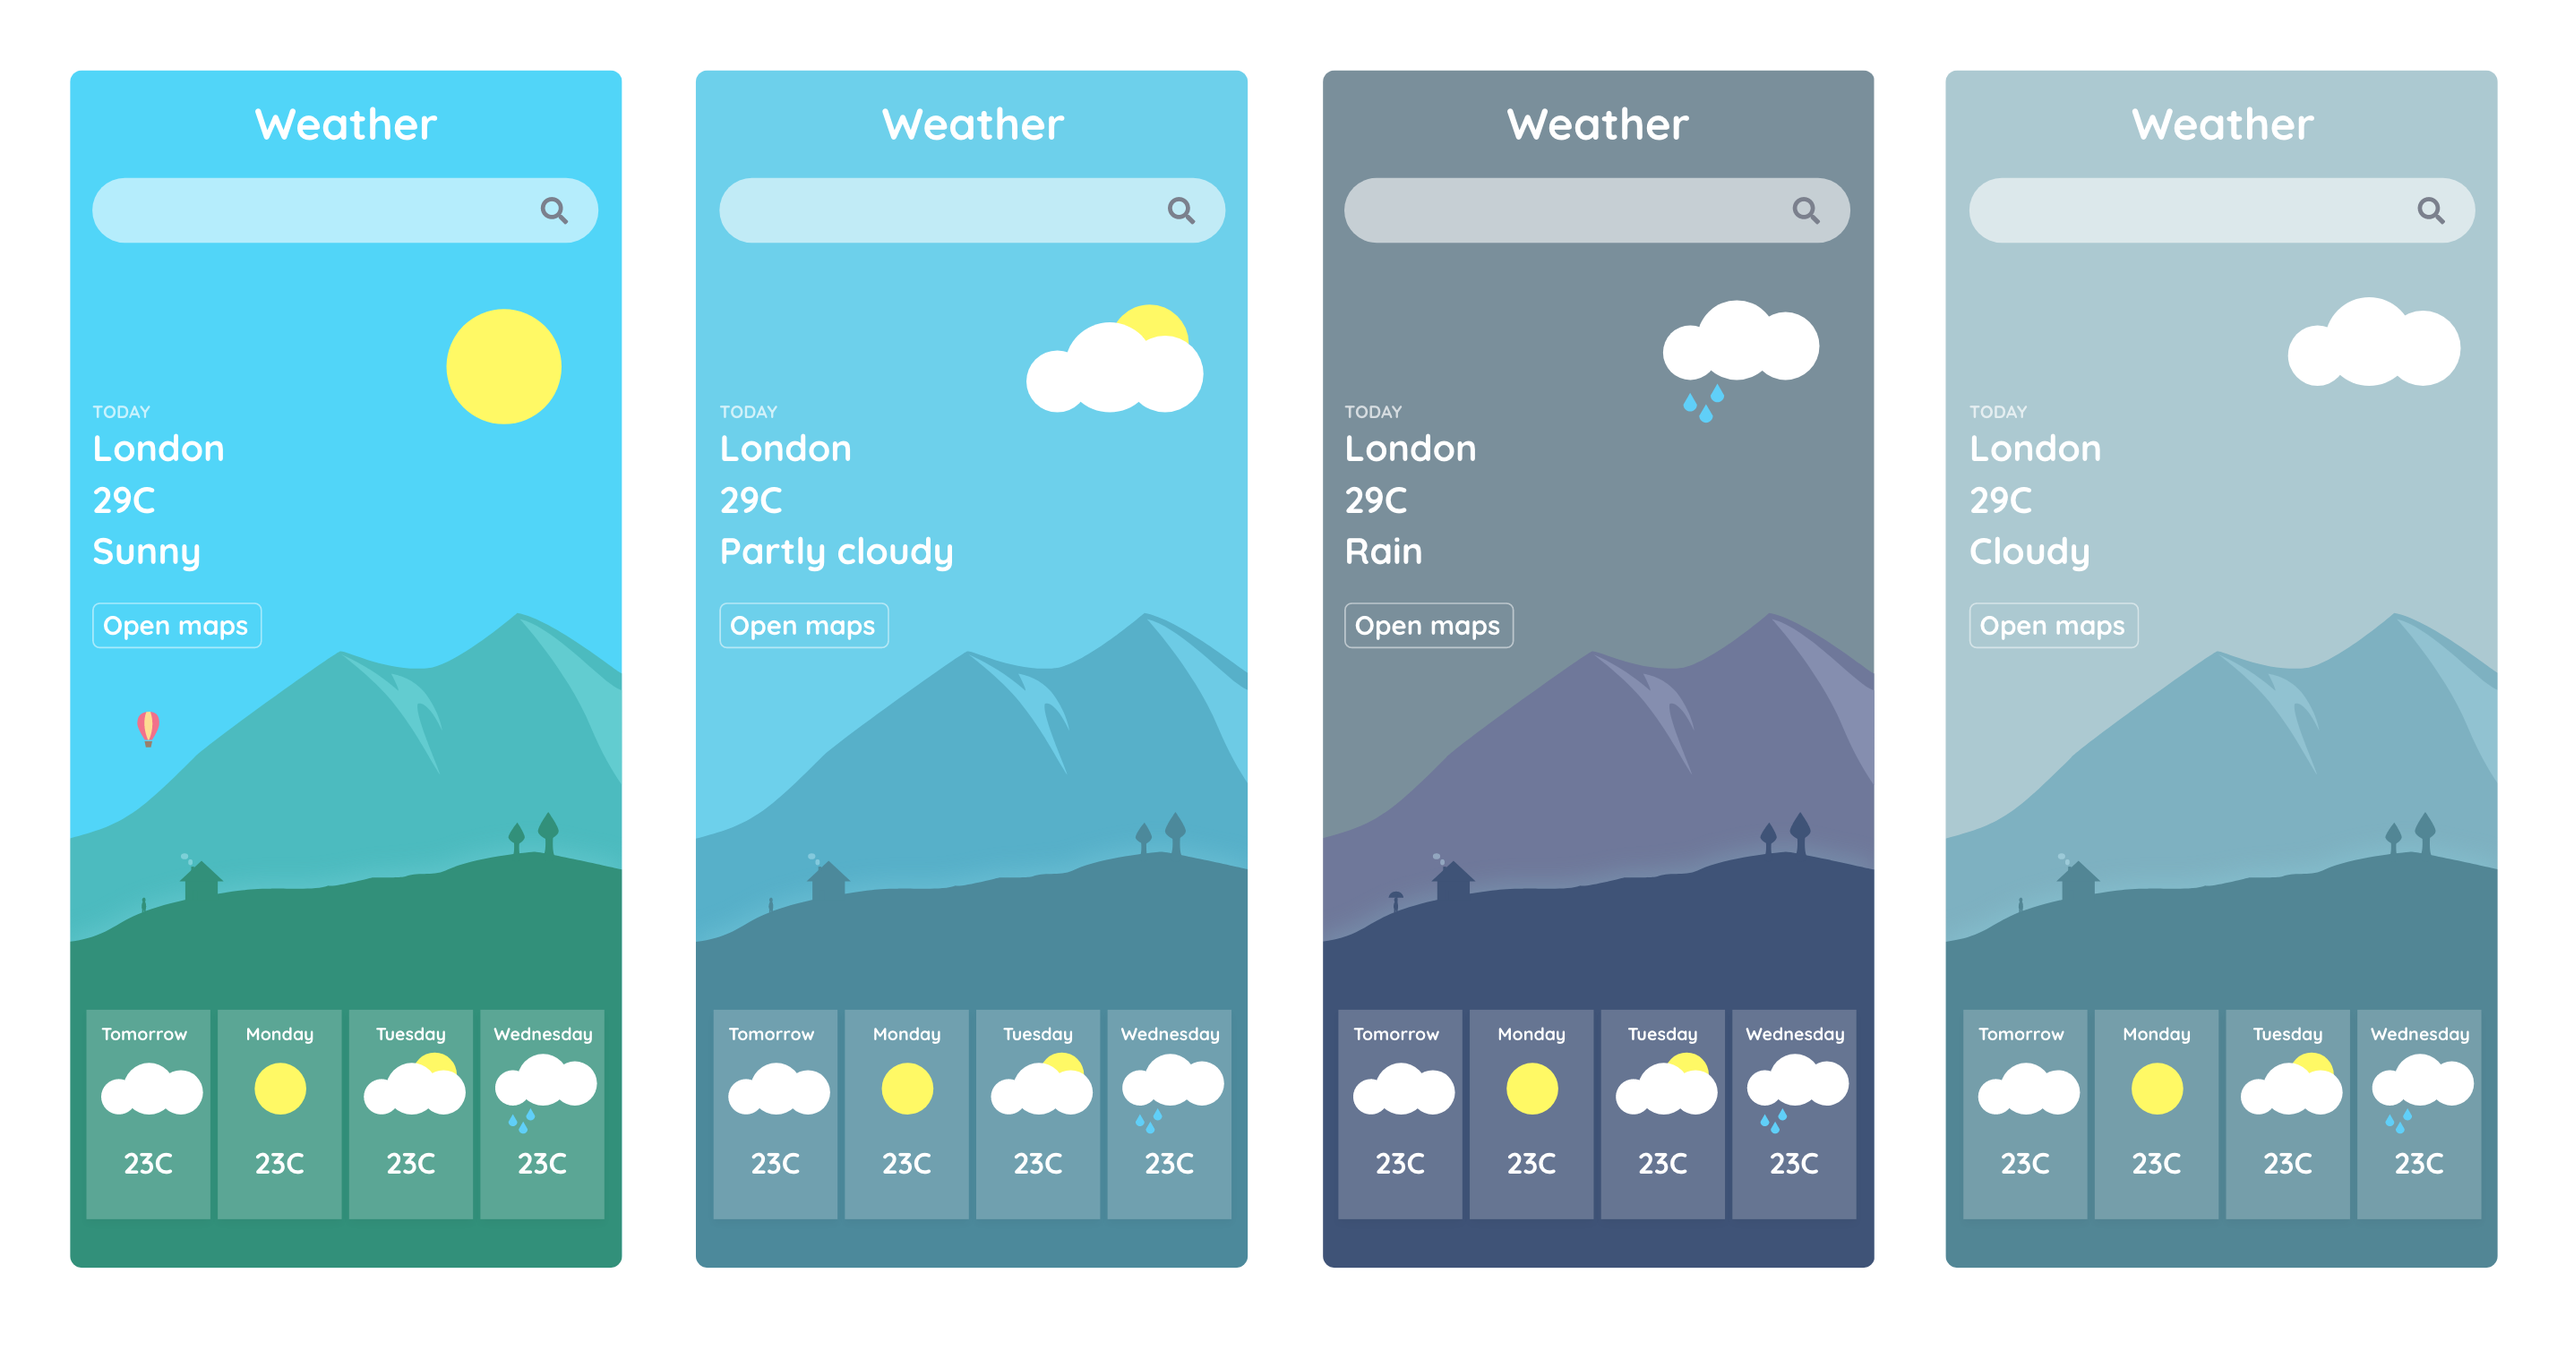
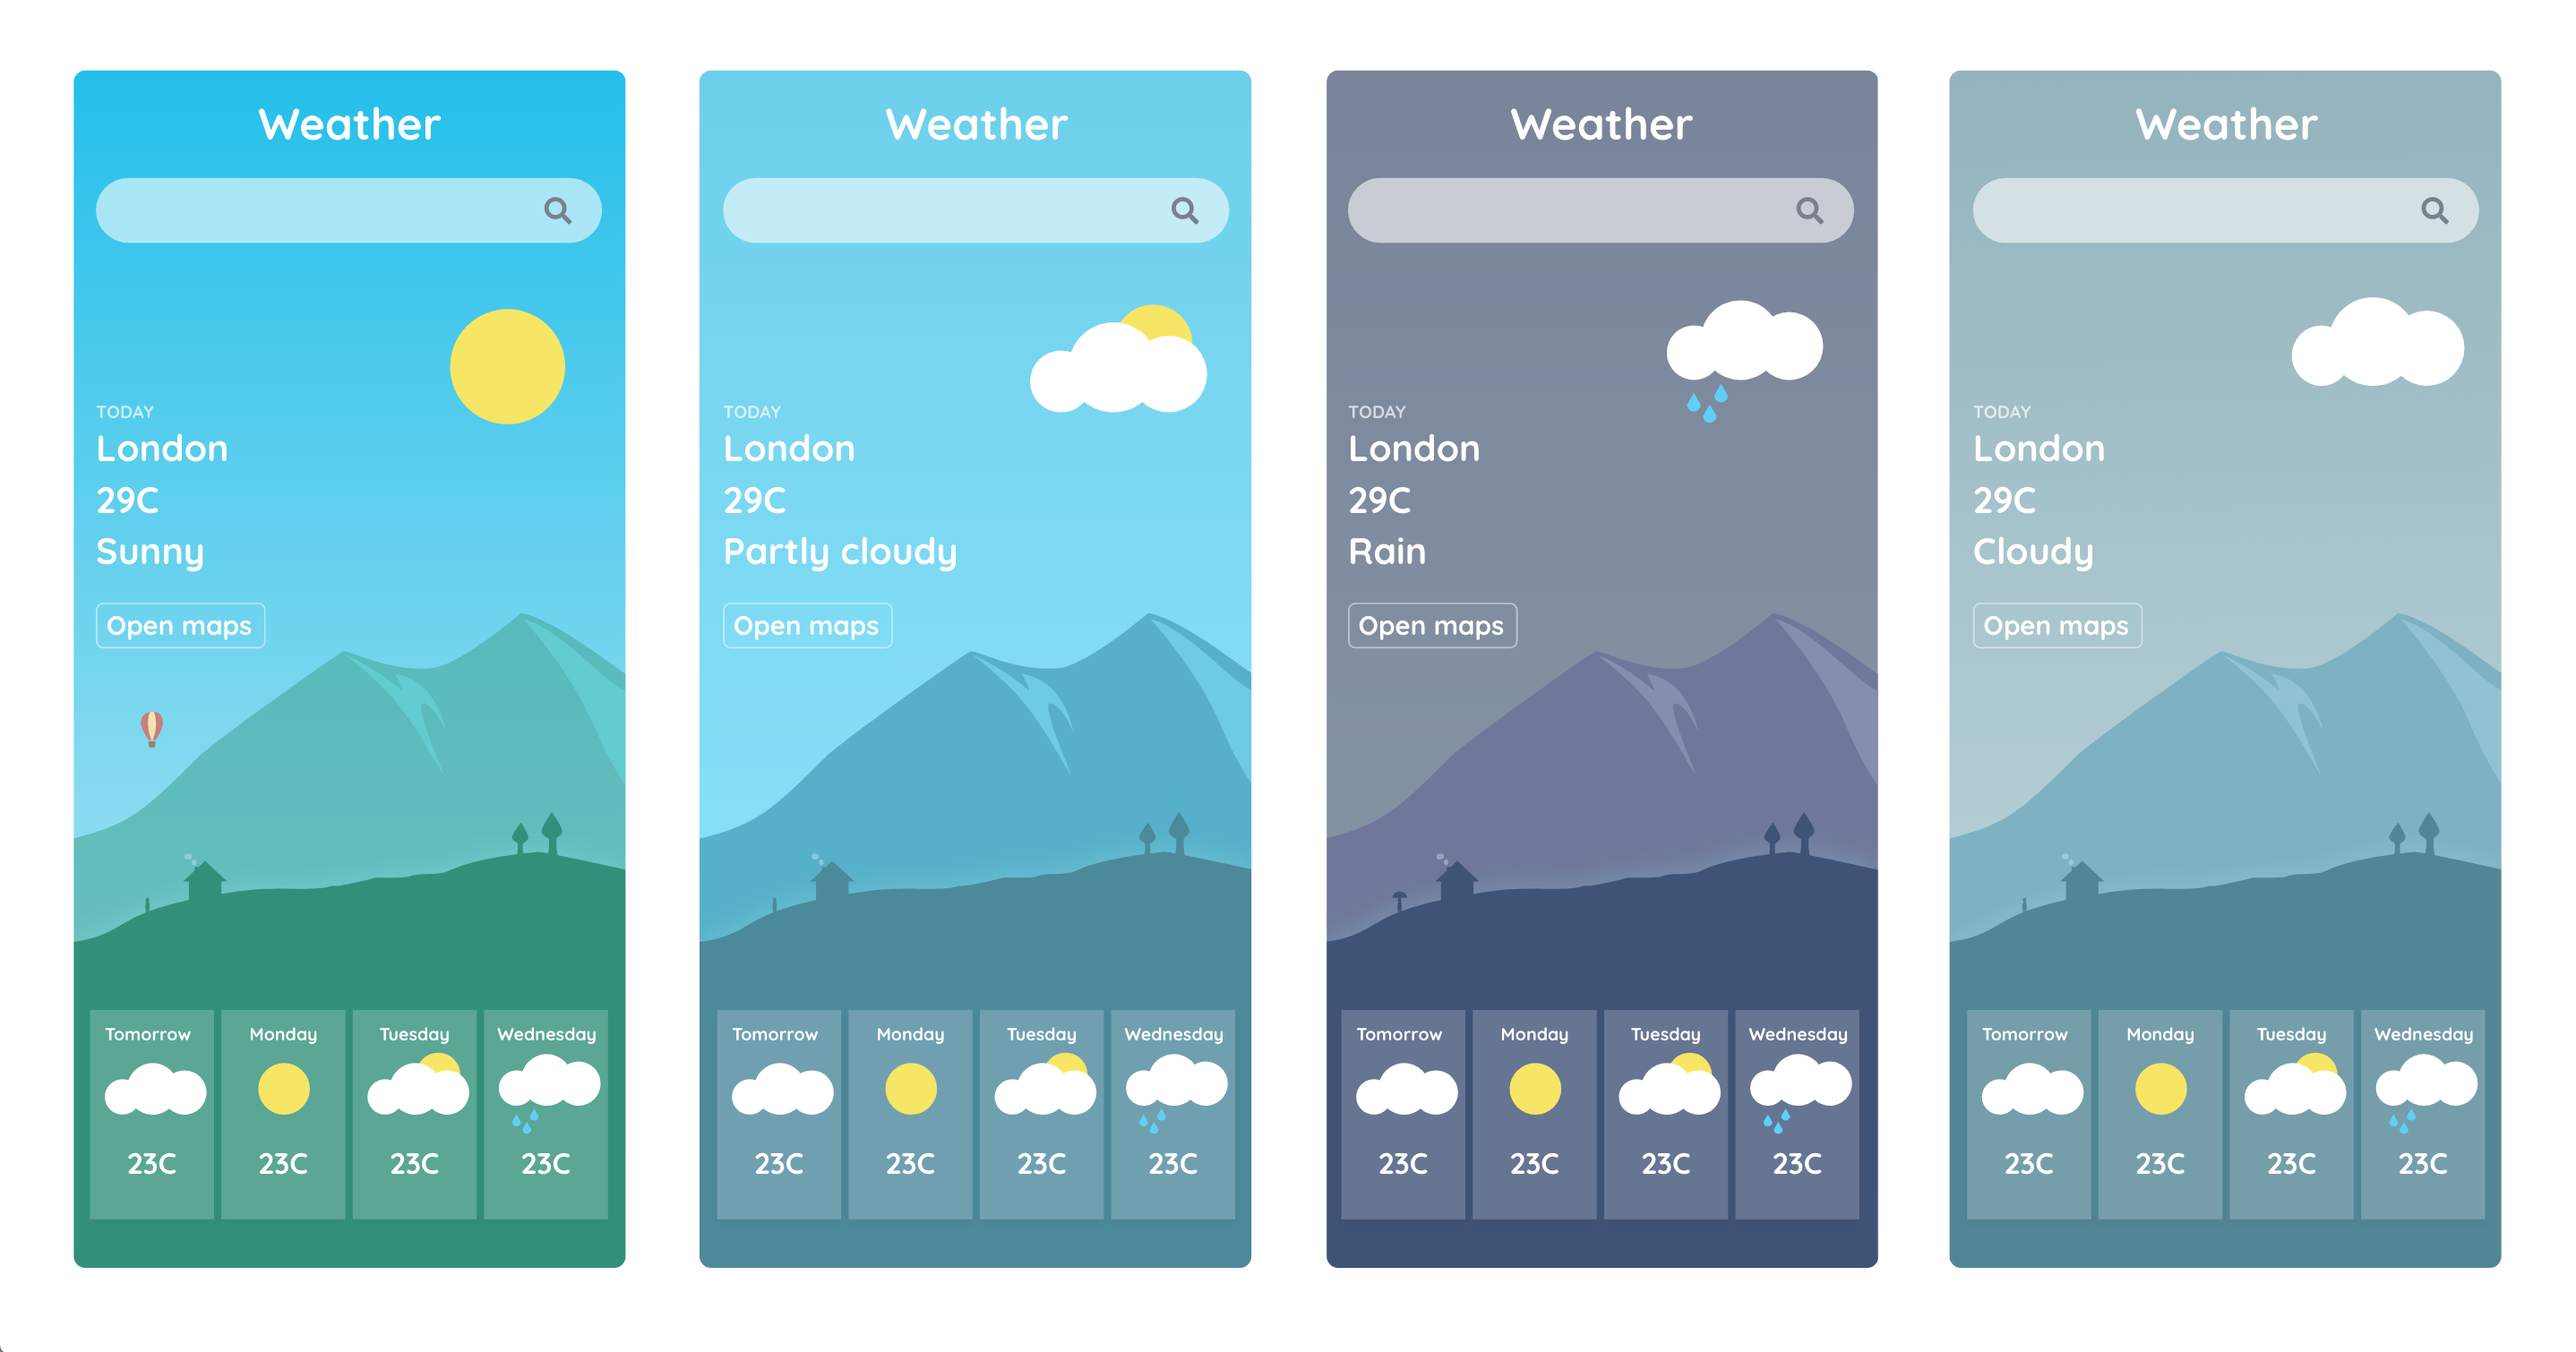
changed images, updated styles

diff --git a/src/App.css b/src/App.css
@@ -218,11 +218,12 @@ body {
     width: 50%; }
   .weather-today__today {
     font-size: .75rem;
-    color: rgba(255, 255, 255, 0.5);
+    color: rgba(255, 255, 255, 0.7);
     text-transform: uppercase;
     font-weight: 700; }
   .weather-today__text {
     margin: .2rem 0;
+    font-size: 1.2rem;
     font-weight: 700; }
     .weather-today__text--capitalize {
       text-transform: capitalize; }

diff --git a/src/App.scss b/src/App.scss
@@ -238,12 +238,13 @@ body {
 	}
 	&__today {
 		font-size: .75rem;
-		color: rgba($white, .5);
+		color: rgba($white, .7);
 		text-transform: uppercase;
 		font-weight: 700;
 	}
 	&__text {
 		margin: .2rem 0;
+		font-size: 1.2rem;
 		font-weight: 700;
 		&--capitalize {
 			text-transform: capitalize;
